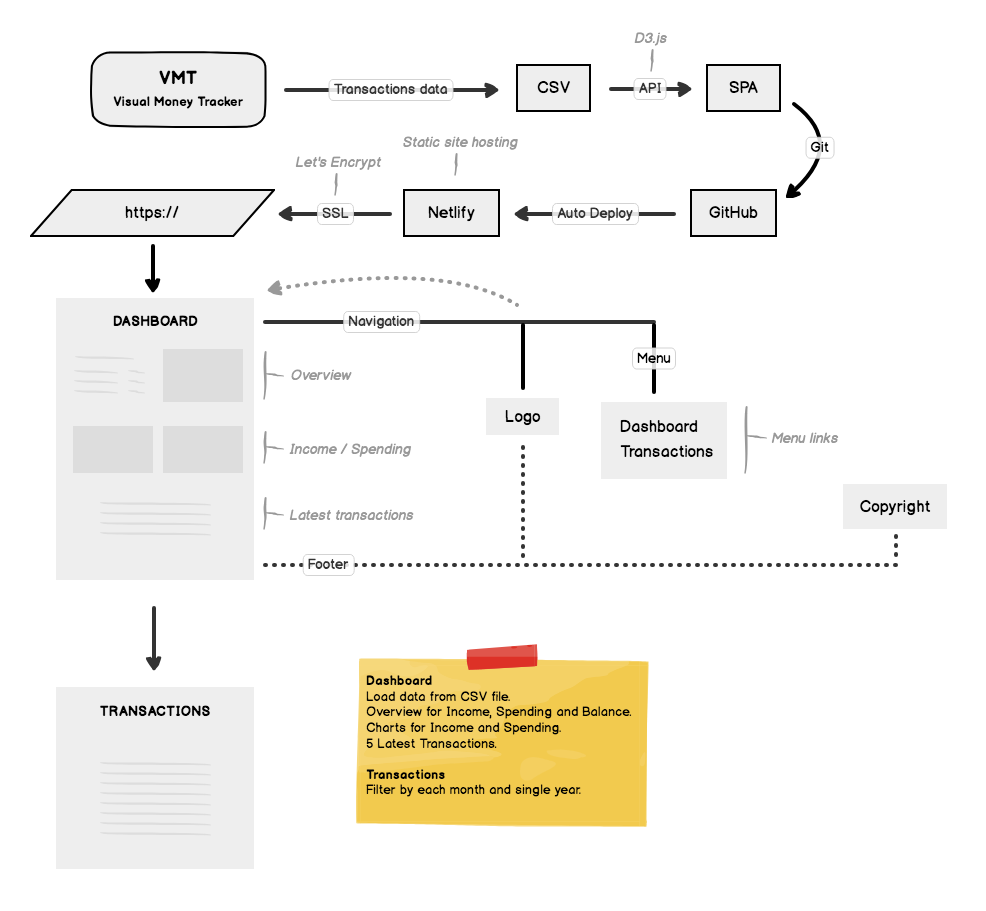
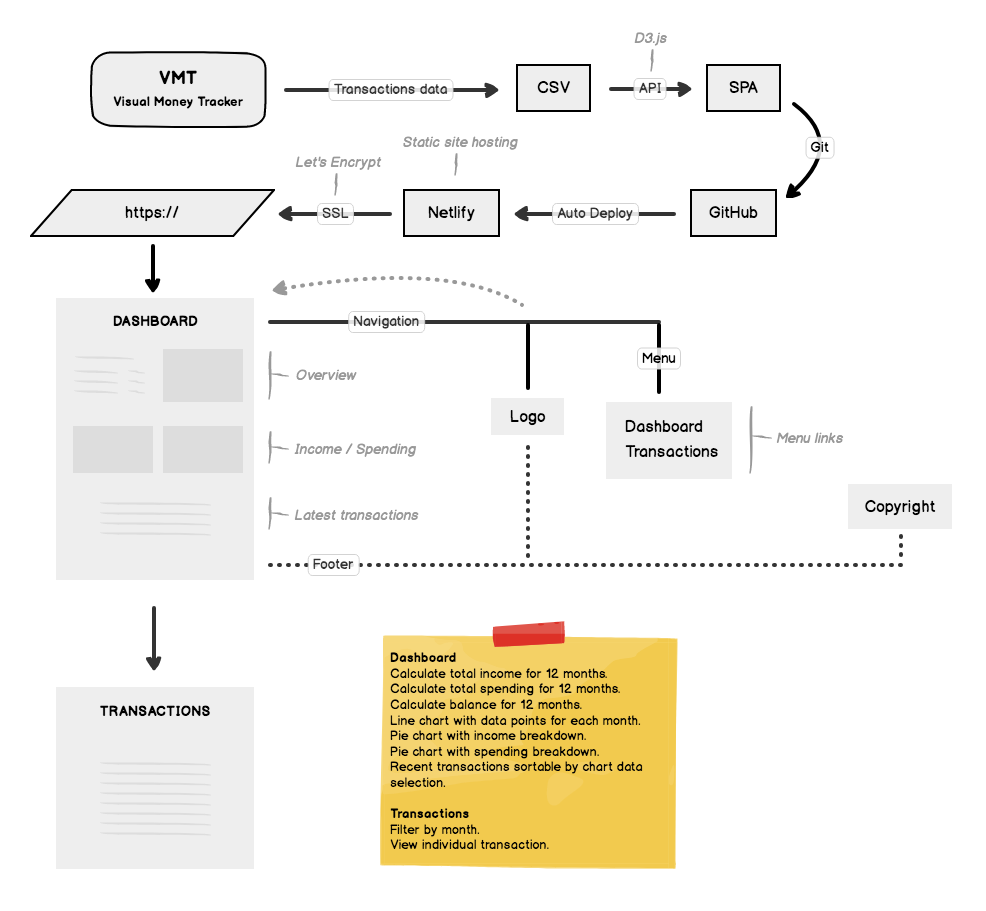
update text according to wireframes

diff --git a/index.html b/index.html
@@ -51,11 +51,11 @@
             <div class="DataOverview">
               <h1 class="DataOverview__headline">Overview (12 months)</h1>
               <div class="DataOverview__item">
-                <span class="DataOverview__item-headline">Total Income:</span>
+                <span class="DataOverview__item-headline">Income:</span>
                 <span class="DataOverview__item-amount">€57,600</span>
               </div>
               <div class="DataOverview__item">
-                <span class="DataOverview__item-headline">Total Spent:</span>
+                <span class="DataOverview__item-headline">Spending:</span>
                 <span class="DataOverview__item-amount">€39,600</span>
               </div>
               <div class="DataOverview__item">
@@ -109,7 +109,7 @@
           </div>
           <div class="col-12">
             <div class="TransactionsList">
-              <h1 class="TransactionsList__headline">Latest transactions</h1>
+              <h1 class="TransactionsList__headline">Recent transactions</h1>
               <div class="TransactionsList__table">
                 <table
                   id="tableRecentTransactions"
